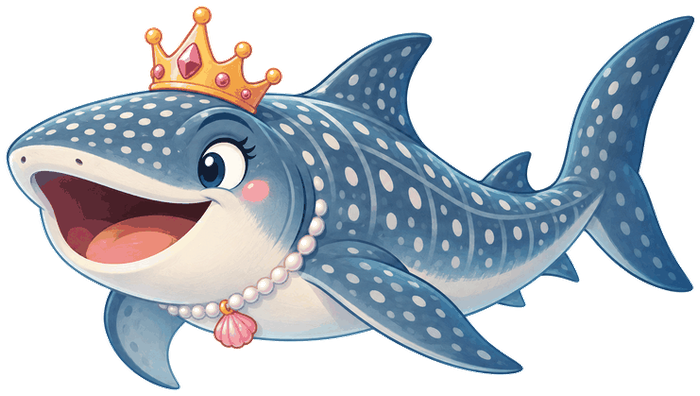
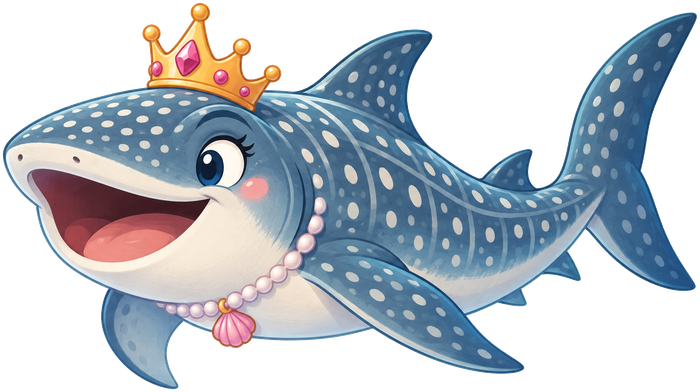
Restore the original 321KB Shark Princess PNG
Reverts to the asset/component from 0f4d8e2 (before the vector-SVG and
pixel-trace-rasterize detours) -- byte-identical to that commit's PNG.
The pixel-traced-then-rerasterized version lost a bit of gradient
detail in the round trip; this skips that loss entirely. Kept the
level-3 placement, audio, and test changes from the commits since then
untouched -- only the asset, its component, and the AGENTS.md
provenance paragraph moved back.

Claude-Session: https://claude.ai/code/session_01GdbKnNkgRLqfTaeg6sao3T

diff --git a/src/components/predators/SharkPrincess.tsx b/src/components/predators/SharkPrincess.tsx
@@ -1,19 +1,22 @@
 import sharkPrincessArt from "../../assets/shark-princess.png";
 
-// Level 3's cheerful crowned whale shark -- a raster illustration (not
-// hand-drawn like most of the others; see AGENTS.md for provenance and
-// processing notes). Imported as a URL (not `?raw` like Kraken.tsx) so Vite
-// emits it as its own cacheable file instead of inlining a base64 string
-// into the JS bundle.
+// Level 3 (previously a recolored Shark playing the orca, see git history)
+// -- a cheerful crowned whale shark, provided by the user as a large raster
+// illustration with a white background (src/assets/shark-princess.png is
+// the processed result: background removed, cropped to content,
+// downscaled; see AGENTS.md for details and why it isn't the original
+// file). Imported as a URL (not `?raw` like Kraken.tsx) so Vite emits it as
+// its own cacheable file instead of inlining a ~300KB base64 string into
+// the JS bundle.
 export function SharkPrincess() {
   return (
     <g className="shark-princess">
       <image
         href={sharkPrincessArt}
         x={-54}
-        y={-30.5}
+        y={-30}
         width={108}
-        height={61}
+        height={60.5}
         preserveAspectRatio="xMidYMid meet"
       />
     </g>

diff --git a/AGENTS.md b/AGENTS.md
@@ -144,10 +144,13 @@ it changes again:
   base64-PNG-in-an-`<image>` wrapper) -- open it and check before assuming
   it's cheap to embed like the Kraken's real vector art.
 
-Current version: rasterized from the pixel-traced source above (Chrome
-headless, transparent background) then downscaled ~2x with Lanczos
-resampling -- which both shrinks the file and manufactures smooth
-antialiased edges the crispEdges trace didn't have -- to 700px wide (~330KB,
+Current version (restored from the first raster attempt, see git history --
+the pixel-traced-then-rerasterized one above lost a little gradient detail
+in the round trip and isn't what's in the repo): background flood-filled to
+transparent from the original's image border inward (safe there since the
+art never touched the canvas edge -- a naive "make white pixels transparent"
+would have also punched holes in the shark's own legitimate white
+belly/spots), cropped to content, and downscaled to 700px wide (~320KB,
 comfortably covers the scene's realistic on-screen size at up to 3x device
 pixel ratio; `.scene__svg` renders at `width: 100%` of a 720px-max-width
 container). Imported as a URL, not `?raw`, so Vite emits it as its own
